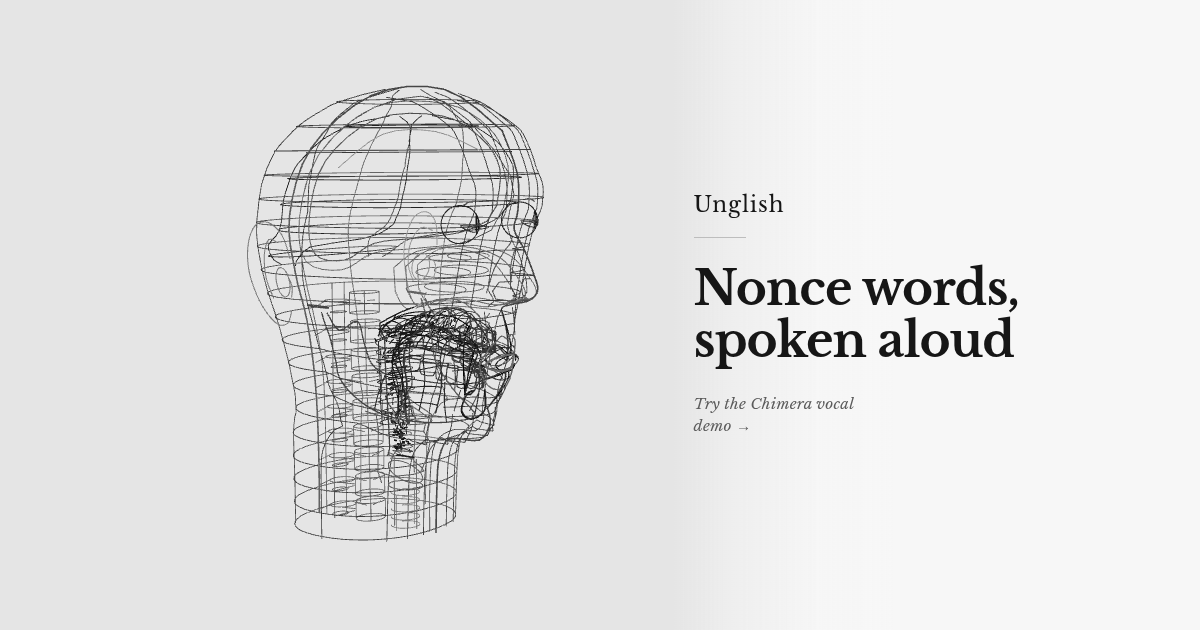
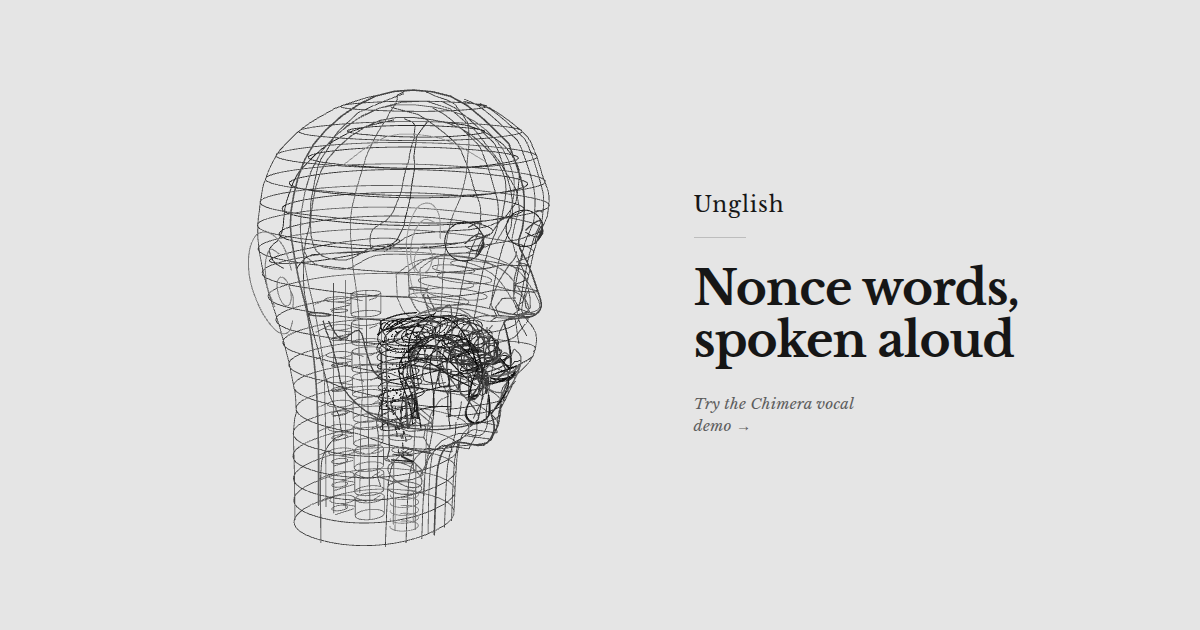
Use solid grey background on vocal OG poster
Drop the right-panel wash gradient so the 1200×630 share card is a
flat grey field matching the captured head clear color.

diff --git a/demo/vocal-og-capture.html b/demo/vocal-og-capture.html
@@ -14,8 +14,8 @@
   <style>
     :root {
       color-scheme: light;
-      --bg: #ececec;
-      --panel: #f7f7f7;
+      /* Match Anatomy3D WebGL clear as captured (SwiftShader → #e5e5e5). */
+      --bg: #e5e5e5;
       --fg: #161616;
       --muted: #5c5c5c;
       --rule: #bdbdbd;
@@ -82,9 +82,8 @@
     #ready[hidden] { display: none; }
 
     /*
-      Landscape OG poster (1200×630): one composition.
-      Head dominates left/center; copy sits in a soft right wash
-      with clear brand → headline → CTA hierarchy for FB/LI crops.
+      Landscape OG poster (1200×630): one composition on solid grey.
+      Head left; copy right with brand → headline → CTA hierarchy.
     */
     body.poster #stage {
       background: var(--bg);
@@ -109,15 +108,7 @@
       z-index: 2;
       pointer-events: none;
       padding: 4rem 3.25rem 4rem 1.35rem;
-      background:
-        linear-gradient(
-          90deg,
-          rgba(247, 247, 247, 0) 0%,
-          rgba(247, 247, 247, 0.55) 12%,
-          rgba(247, 247, 247, 0.94) 28%,
-          var(--panel) 42%,
-          var(--panel) 100%
-        );
+      background: var(--bg);
     }
     body.poster .copy .brand {
       font-size: 1.35rem;
